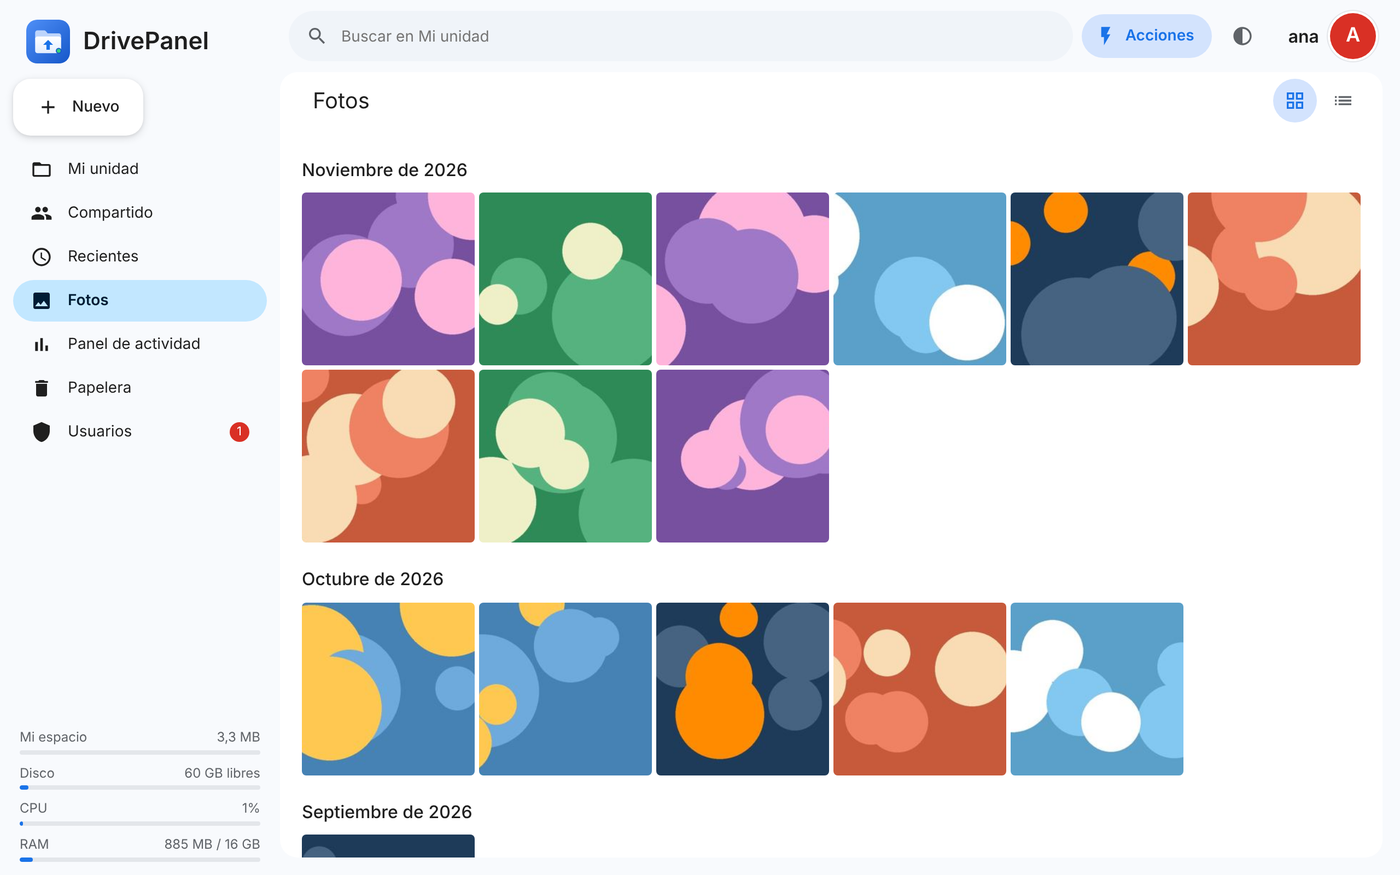
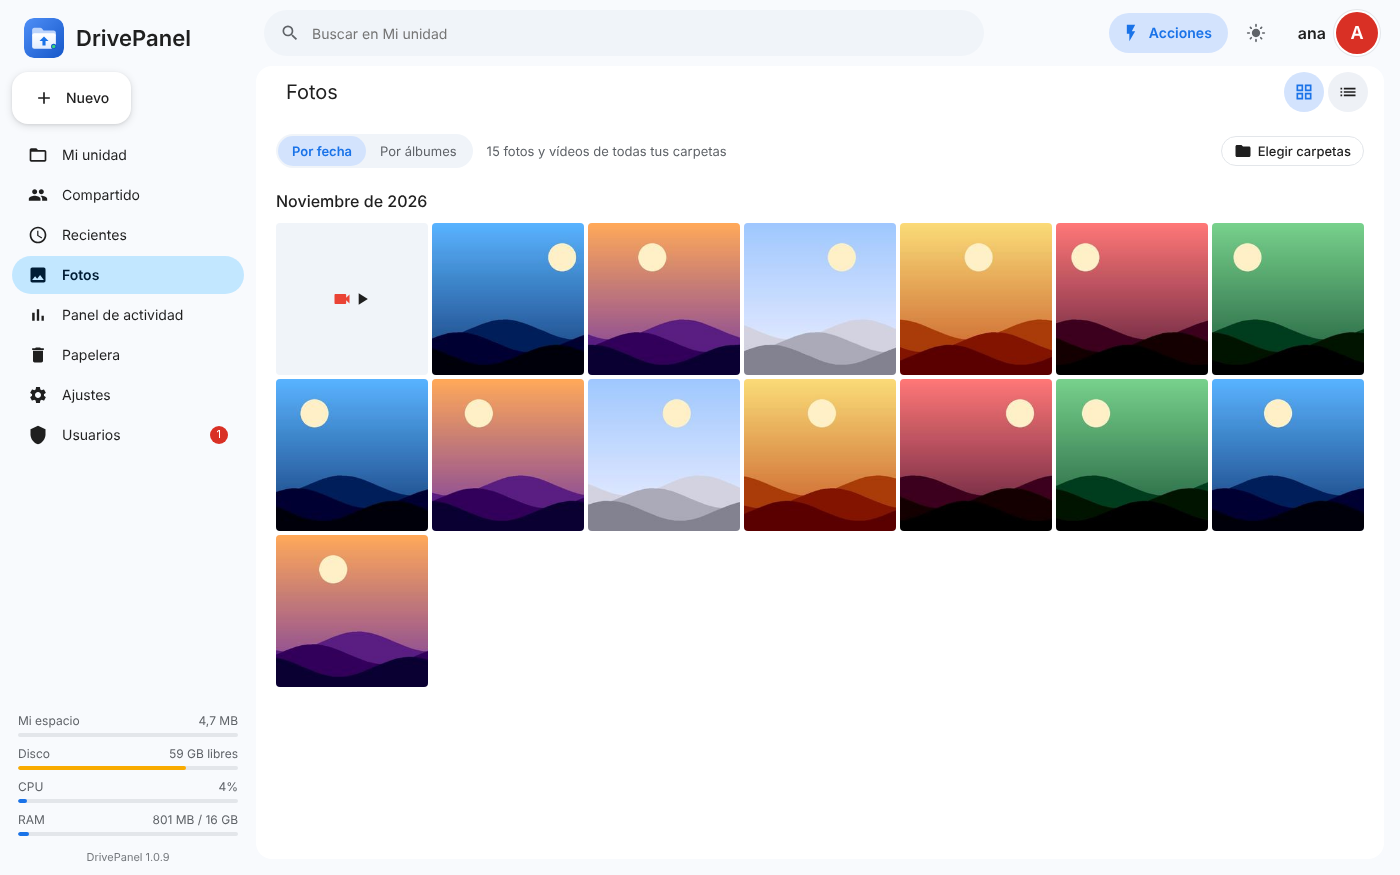
README: capturas nuevas de la 1.0.9 en español e inglés (Ajustes, aviso de disco lleno, Fotos) e inglés ya disponible
Claude-Session: https://claude.ai/code/session_01LFHSCSFj7dZPoxNm24bTpg

diff --git a/README.md b/README.md
@@ -6,10 +6,10 @@ Tu propio "Google Drive" en casa, pensado para una Raspberry Pi (funciona en cua
 Linux con Docker). Ligero (unos 40 MB de RAM), en español y en inglés, con modo claro/oscuro y
 WebDAV para que el móvil suba las fotos solo.
 
-> **Idiomas / Languages:** ahora DrivePanel está en español. **El inglés llegará muy pronto**,
-> y más adelante otros idiomas si la gente los pide.
-> DrivePanel is in Spanish right now. **English is coming very soon**, and more languages
-> will follow later if people ask for them.
+> **Idiomas / Languages:** DrivePanel está en **español e inglés**. Sale en el idioma del
+> navegador y se cambia en **Ajustes → Tus preferencias → Idioma**. Más idiomas si la gente los pide.
+> DrivePanel is available in **Spanish and English**. It opens in your browser's language and
+> you can change it in **Settings → Your preferences → Language**. More languages if people ask.
 
 **Qué incluye:**
 
@@ -49,7 +49,8 @@ Properties · uploads of files and whole folders in chunks with retries, duplica
 warnings and live speed · activity dashboard (uploads per day, disk usage, file types,
 live Raspberry Pi status) · Photos by month or by album · Recent, viewer for photos,
 video, audio, PDF and text, .zip download · Trash · sharing with another user or with a
-public link that can expire · users with admin approval and quotas · WebDAV at `/dav/` ·
+public link that can expire · users with admin approval and quotas · WebDAV at `/dav/` · disk full
+warnings in the web, the phone app and (optional) Telegram ·
 installable on the phone (from the browser or with the Android APK).
 
 **Install:**
@@ -81,6 +82,17 @@ delete your files too (you must type `BORRAR` to confirm). The script speaks Spa
 values (the keys are the Spanish texts) and add the code to `LANGS` in
 `app/static/i18n.js` and `app/i18n.py`.
 
+**Screenshots:**
+
+| | |
+|---|---|
+| ![My Drive](docs/capturas/mi-unidad-en.png) | ![Activity dashboard](docs/capturas/panel-en.png) |
+| **My Drive** | **Activity dashboard** |
+| ![Photos](docs/capturas/fotos-en.png) | ![Settings](docs/capturas/ajustes-en.png) |
+| **Photos** by month or by album | **Settings**, with the language |
+| ![Disk full warning](docs/capturas/aviso-disco-en.png) | |
+| **Disk full warning**, with optional Telegram | |
+
 </details>
 
 ![Mi unidad](docs/capturas/mi-unidad.png)
@@ -100,6 +112,8 @@ values (the keys are the Spanish texts) and add the code to `LANGS` in
 | **Fotos**, agrupadas por meses | **Compartido**, con usuarios o por enlace |
 | ![Usuarios](docs/capturas/usuarios.png) | <img src="docs/capturas/movil.png" width="260" alt="En el móvil"> |
 | **Usuarios** (administrador) | **En el móvil** |
+| ![Ajustes](docs/capturas/ajustes.png) | ![Aviso de disco lleno](docs/capturas/aviso-disco.png) |
+| **Ajustes**, con el idioma | **Aviso de disco lleno**, con Telegram opcional |
 | ![Entrar](docs/capturas/entrar.png) | |
 | **Pantalla de entrada** | |
 
